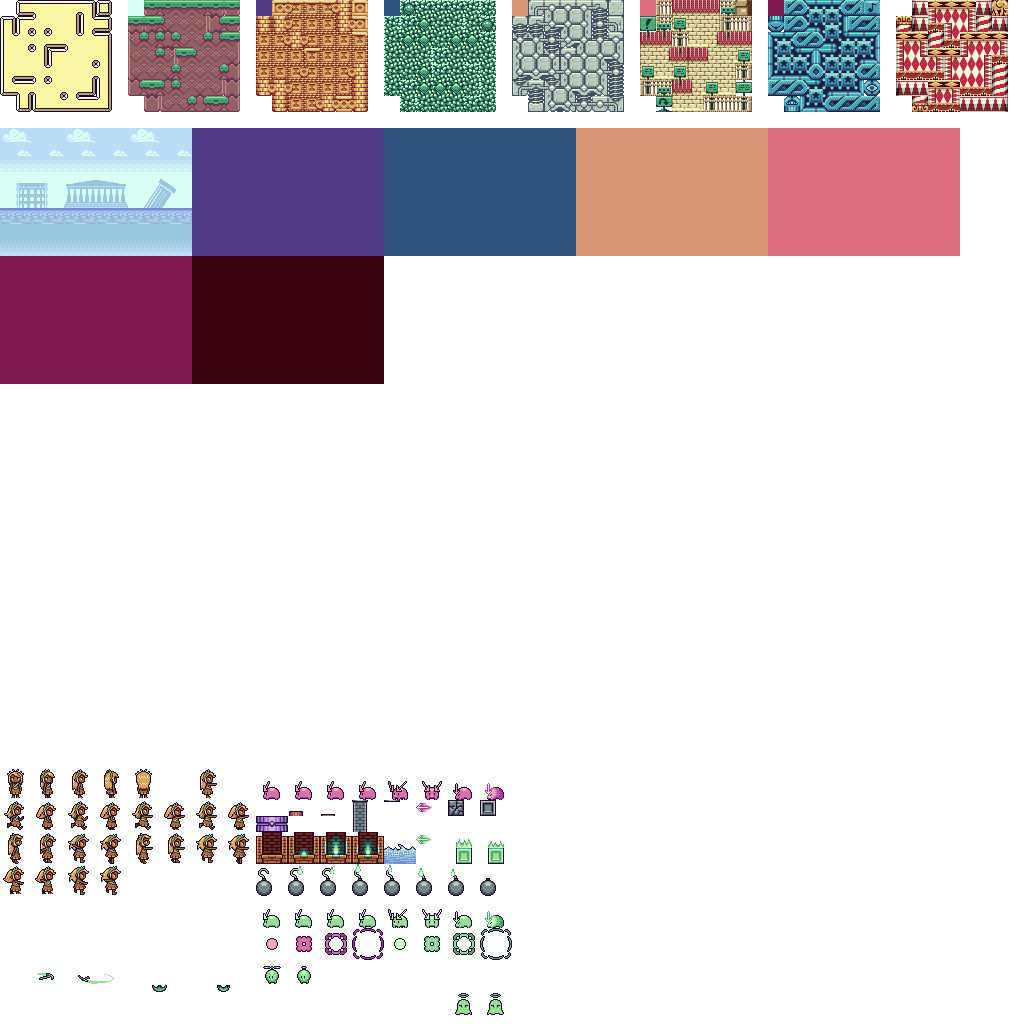
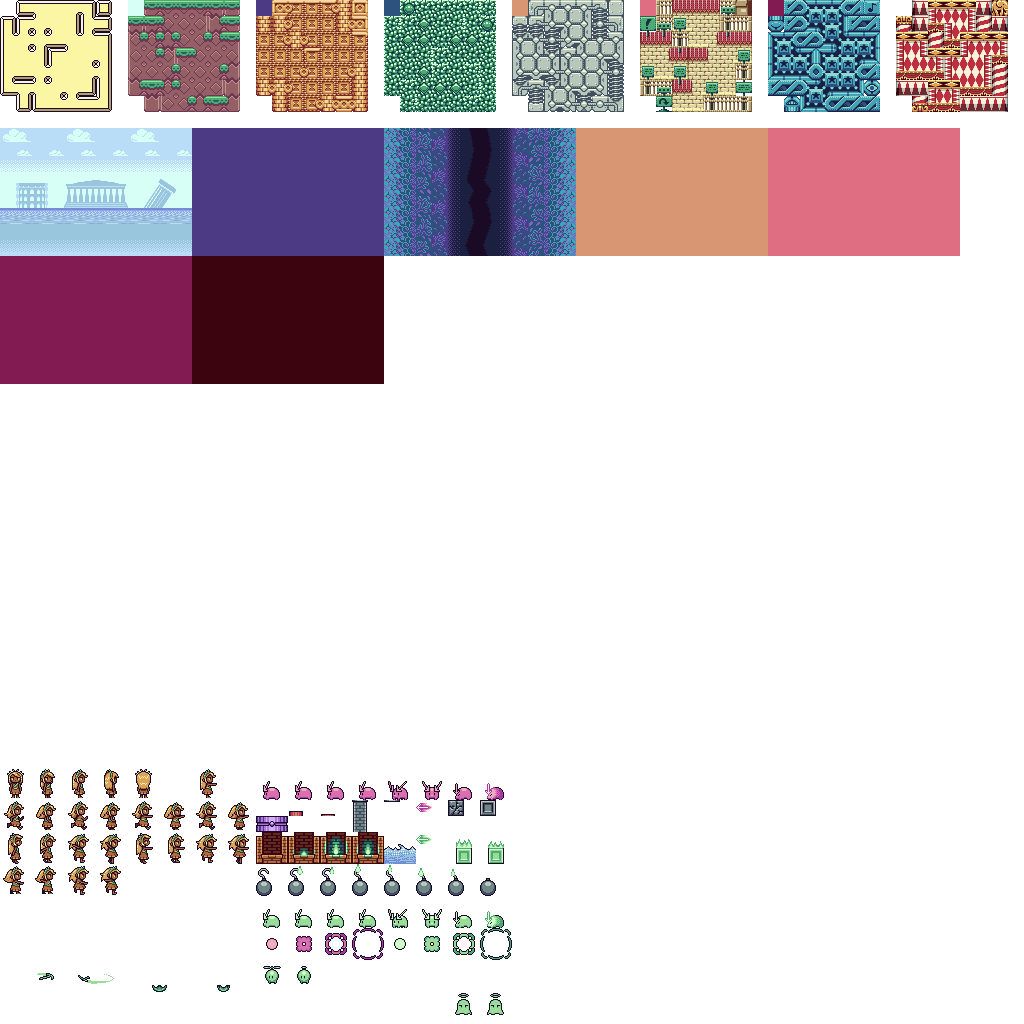
Added Vertically Scrollable Background

Changed region(s): [[0.375, 0.125, 0.5625, 0.25]]

diff --git a/AltarElementsZero/src/renderer/Renderer.cs b/AltarElementsZero/src/renderer/Renderer.cs
@@ -18,8 +18,14 @@ namespace AltarElementsZero.src.renderer
         {
             if(background.IsVertical)
             {
-                // RenderVerticallyScrollableBackground
-            }
+				RenderVerticallyScrollableBackground(
+					spriteBatch,
+					cameraPosition,
+					atlas,
+					background.AtlasPosition,
+					background.Distances
+				);
+			}
             else
             {
                 RenderHorizontallyScrollableBackground(
@@ -32,7 +38,45 @@ namespace AltarElementsZero.src.renderer
             }
         }
 
-        public static void RenderHorizontallyScrollableBackground(
+		public static void RenderVerticallyScrollableBackground(
+			SpriteBatch spriteBatch,
+			PxPosition cameraPosition,
+			Texture2D atlas,
+			PxPosition atlasPosition,
+			uint[] distances
+			)
+		{
+			if (distances.Length < Configuration.Chunk.Tile.Width) return;
+			for (int col = 0; col < Configuration.Chunk.Tile.Width; col++)
+			{
+				Rectangle sourceRectangle = new(
+					(int)atlasPosition.X + col * Configuration.Tile.Px.Width,
+					(int)atlasPosition.Y,
+					Configuration.Tile.Px.Width,
+					Configuration.Chunk.Px.Height
+					);
+				uint distance = distances[col];
+
+				uint cameraOffset = 0;
+				if (distance != 0)
+				{
+					cameraOffset = (cameraPosition.Y / distance) % (uint)Configuration.Chunk.Px.Height;
+				} // otherwise, col remains immobile
+				spriteBatch.Draw(
+					texture: atlas,
+					position: new(col * Configuration.Tile.Px.Width, -(int)cameraOffset),
+					sourceRectangle: sourceRectangle,
+					color: Color.White
+					);
+				spriteBatch.Draw(
+					texture: atlas,
+					position: new(col * Configuration.Tile.Px.Width, -(int)cameraOffset + Configuration.Chunk.Px.Height),
+					sourceRectangle: sourceRectangle,
+					color: Color.White
+					);
+			}
+		}
+		public static void RenderHorizontallyScrollableBackground(
             SpriteBatch spriteBatch,
             PxPosition cameraPosition,
             Texture2D atlas,
@@ -55,7 +99,7 @@ namespace AltarElementsZero.src.renderer
                 if(distance != 0)
                 {
                     cameraOffset = (cameraPosition.X / distance) % (uint)Configuration.Chunk.Px.Width;
-                } // otherwise, row remains immobile
+                } // otherwise, col remains immobile
                 spriteBatch.Draw(
                     texture: atlas,
                     position: new(-(int)cameraOffset, row * Configuration.Tile.Px.Height),

diff --git a/AltarElementsZero/src/states/gameplay/Gameplay.cs b/AltarElementsZero/src/states/gameplay/Gameplay.cs
@@ -264,6 +264,7 @@ namespace AltarElementsZero.src.states.gameplay
 			CurrentBackground = chunk.BackgroundIndex;
 			switch(CurrentBackground){
 				case 3: // underwater
+				case 0x12:
 					CurrentGravity = new Force(0, 6);
 					CurrentAirFriction = 10;
 					break;
@@ -1135,6 +1136,15 @@ namespace AltarElementsZero.src.states.gameplay
 					CameraPosition,
 					_assets.Atlas!,
 					Background1.Instance
+				);
+			}
+			else if(CurrentBackground == 0x12)
+			{
+				Renderer.RenderBackground(
+					spriteBatch,
+					CameraPosition,
+					_assets.Atlas!,
+					Background3.Instance
 				);
 			}
 

diff --git a/AltarElementsZero/src/renderer/IBackground.cs b/AltarElementsZero/src/renderer/IBackground.cs
@@ -18,4 +18,12 @@ namespace AltarElementsZero.src.renderer
 		public uint[] Distances { get; } = [2, 3, 4, 8, 8, 6, 4, 4];
 	}
 
+	class Background3 : IBackground
+	{
+		public static readonly Background3 Instance = new Background3();
+		public PxPosition AtlasPosition { get; } = new(384, 128);
+		public bool IsVertical { get; } = true;
+		public uint[] Distances { get; } = [2,3,4,5,6,8,8,6,5,4,3,2];
+	}
+
 }
